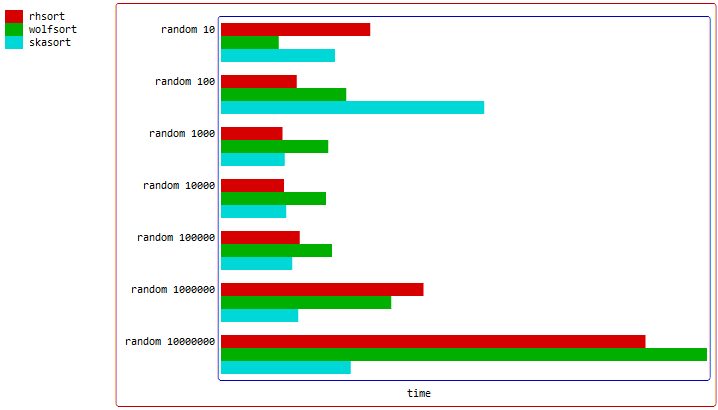
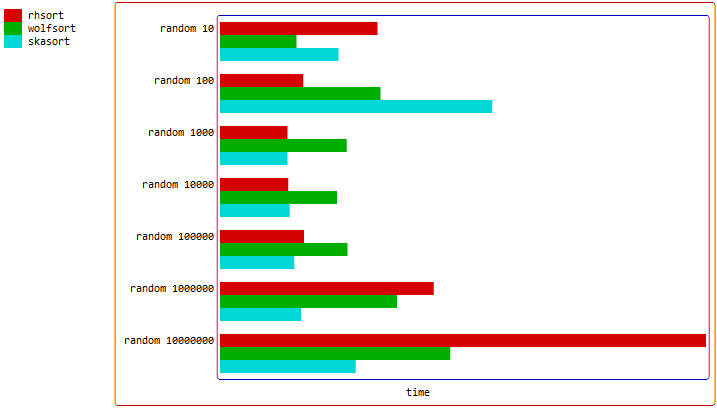
1.2.1.1

diff --git a/src/wolfsort.c b/src/wolfsort.c
@@ -24,7 +24,7 @@
 */
 
 /*
-	wolfsort 1.1.5.4
+	wolfsort 1.2.1.1
 */
 
 
@@ -113,6 +113,8 @@ inline void FUNC(wolf_unguarded_insert)(VAR *array, size_t offset, size_t nmemb,
 	}
 }
 
+void FUNC(wolfsort)(VAR *array, size_t nmemb, CMPFUNC *cmp);
+
 void FUNC(wolf_partition)(VAR *array, VAR *aux, size_t aux_size, size_t nmemb, VAR min, VAR max, CMPFUNC *cmp)
 {
 	VAR *swap, *pta, *pts, *ptd, range, moduler;
@@ -133,15 +135,11 @@ void FUNC(wolf_partition)(VAR *array, VAR *aux, size_t aux_size, size_t nmemb, V
 	}
 	else
 	{
-#if 0
-		buckets = nmemb > 8 * 65536 ? 65536 : nmemb / 8;
-		moduler = range / buckets + 1;
-#else
 		buckets = nmemb <= 4 * 65536 ? nmemb / 4 : 1024;
+
 		for (moduler = 4 ; moduler <= range / buckets ; moduler *= 2) {}
 
 		buckets = range / moduler + 1;
-#endif
 	}
 
 	limit = (nmemb / buckets) * 4;
@@ -203,7 +201,8 @@ void FUNC(wolf_partition)(VAR *array, VAR *aux, size_t aux_size, size_t nmemb, V
 
 			if (moduler > 1)
 			{
-				FUNC(fluxsort_swap)(pta, pts, cnt, cnt, cmp);
+				FUNC(wolfsort)(pta, cnt, cmp);
+//				FUNC(fluxsort_swap)(pta, pts, cnt, cnt, cmp);
 			}
 			pta += cnt;
 		}

diff --git a/src/bench.c b/src/bench.c
@@ -352,7 +352,7 @@ void test_sort(void *array, void *unsorted, void *valid, int minimum, int maximu
 				case 's' + 'k' * 32 + 'i' * 1024: skipsort(array, max, size, cmpf); break;
 #endif
 #ifdef WOLFSORT_H
-				case 'w' + 'o' * 32 + 'l' * 1024: wolfsort_prim(array, max, size + 1); break;
+				case 'w' + 'o' * 32 + 'l' * 1024: wolfsort(array, max, size, cmpf); break;
 #endif
 				case 'q' + 's' * 32 + 'o' * 1024: qsort(array, max, size, cmpf); break;
 

diff --git a/src/wolfsort.h b/src/wolfsort.h
@@ -24,7 +24,7 @@
 */
 
 /*
-	wolfsort 1.1.5.4
+	wolfsort 1.2.1.1
 */
 
 #ifndef WOLFSORT_H
